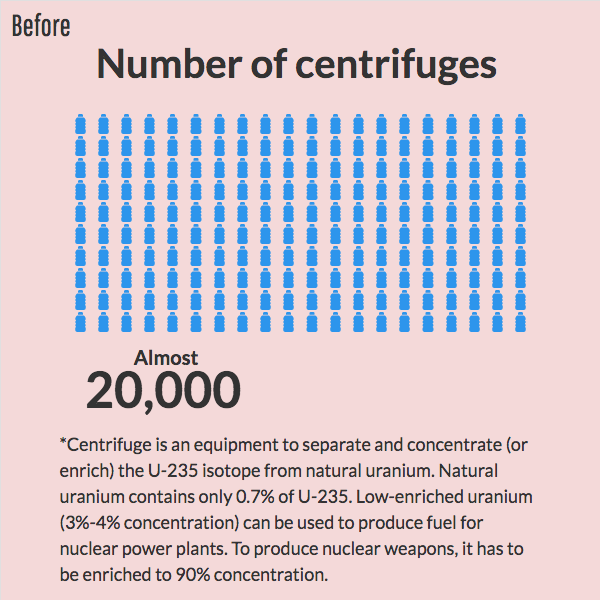
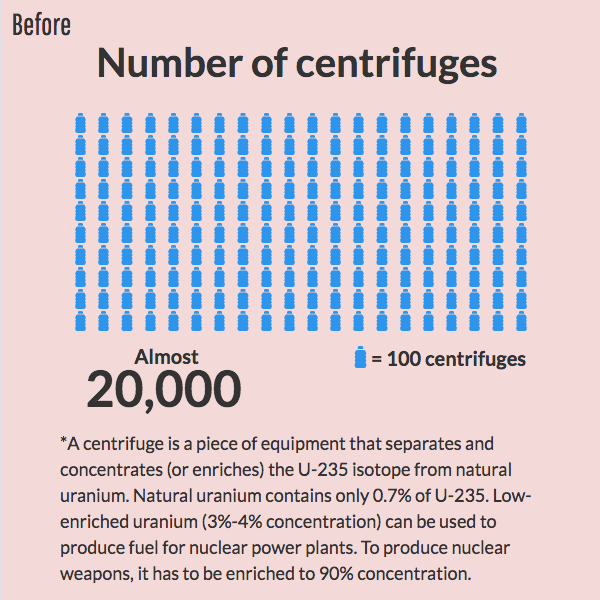
iran nuclear deal images changed

diff --git a/philippines-voter-680.html b/philippines-voter-680.html
@@ -1,0 +1,130 @@
+<head>
+<script src="//ajax.googleapis.com/ajax/libs/jquery/1.11.3/jquery.min.js"></script>
+<script src="http://code.highcharts.com/highcharts.js"></script>
+
+<style>
+body {
+  font-family: "Source Sans Pro","Helvetica Neue",Helvetica,Arial,"Nimbus Sans L",sans-serif;
+  font-size: 112.5%;
+  line-height: 1.5em;
+  color: #33333c;
+      }  
+
+#container{
+height: 400px; 
+max-width: 700px;
+}
+
+#wrapper {
+    border:1px solid #D3D3D3;
+    max-width: 700px; 
+    margin: 0 auto;
+}
+
+#note {
+    font-size: 11px;
+    color: #808080;
+    line-height: 14px;
+    padding:0px 10px 10px 10px;
+}
+
+#credit {
+    font-size: 12px;
+    padding-top: 10px;
+    text-align: right;
+}
+
+#text {
+    font-size: 16px;
+    font-weight: normal;
+    padding-bottom: 10px;
+    color:#333;
+    line-height: 20px;
+}
+
+</style>
+</head>
+
+<body>
+<div id="wrapper">    
+    <div id="container"></div>
+    <div id="note">
+        <div id="text">The San Francisco Philippine Consulate registers voters in eight states in the northwest, Northern California and Nevada. The Los Angeles Consulate covers three states in the southwest, Southern California and Nevada. California is home to 45 percent of Filipinos in America.
+        <div id="credit">Kuang Keng Kuek Ser / PRI</div>
+    </div>
+</div>
+</body>
+
+<script>
+$(function () {
+
+    Highcharts.setOptions({
+        lang: {
+          thousandsSep: ','
+        }
+    }),
+
+    $('#container').highcharts({
+        chart: {
+            type: 'bar',
+        },
+        title: {
+            text: 'Filipinos registered in California to vote in Philippines elections',
+            margin: 20,
+        },
+        subtitle: {
+            enabled: false,
+        },        
+        xAxis: {
+            categories: ['2010','2013','2016'],   
+        },
+        yAxis: {    
+            visible: false,
+        },
+        credits: { enabled: false, },
+        legend: {
+            enabled: true,
+        },
+        tooltip: {
+            pointFormat: '{series.name}<br><b>{point.y:,.0f}</b>',
+        },
+        plotOptions: {
+            series: {
+                groupPadding: 0.07,
+                pointPadding: 0,
+            }
+        },
+        series: [{
+            name: 'Registered in San Francisco',
+            data: [6951,15221,46583],
+            color:"#fcd116",
+            dataLabels: {
+                enabled: true,
+                rotation: 0,
+                color: '#FFFFFF',
+                align: 'left',
+                format: '{point.y:,.0f}',
+                y: 0, // 10 pixels down from the top
+                style: {
+                    fontSize: '12px',
+                }
+            }
+        }, {
+            name: 'Registered in Los Angeles',
+            data: [12642,29037,54651],
+            color:"#4188bc",
+            dataLabels: {
+                enabled: true,
+                rotation: 0,
+                color: '#FFFFFF',
+                align: 'left',
+                format: '{point.y:,.0f}',
+                y: 0, // 10 pixels down from the top
+                style: {
+                    fontSize: '12px',
+                }
+            }
+        }],
+    });
+});
+</script>

diff --git a/iran-nuclear.html b/iran-nuclear.html
@@ -1,0 +1,66 @@
+
+<!DOCTYPE html>
+<html>
+<head>
+<meta http-equiv="Content-Type" content="text/html; charset=utf-8">
+<meta name="viewport" content="width=device-width, initial-scale=1">	
+<link href="http://kuangkeng.github.io/pri-projects/juxtapose.css" rel="stylesheet">
+
+<style type="text/css">
+
+  body {
+  font-family: "Source Sans Pro","Helvetica Neue",Helvetica,Arial,"Nimbus Sans L",sans-serif;
+  font-size: 112.5%;
+  line-height: 1.2em;
+  color: #33333c;
+  } 
+
+  .container {
+    width:100%; 
+    height:auto; 
+    max-width:600px;
+    margin-bottom: 15px;
+  }
+  
+  img {max-width:100%}
+
+  .credit, .description {
+    font-style: italic;
+    font-size: 16px;
+    margin-top: 2px;
+    margin-bottom: 3px;
+  }
+
+  .credit {font-size: 14px;}
+
+@media (max-width: 500px) {
+  .credit, .description {
+    line-height: 1.1em;
+    font-size: 12px;
+  }
+
+  .credit {font-size: 10px;}
+  div.jx-label {font-size: 0.6em !important;}
+} 
+
+</style>
+<head>
+
+<body>
+  <div class="container">
+    <div class="juxtapose" data-startingposition="50" data-showlabels="false" data-showcredits="false" data-animate="true" data-mode="horizontal">
+    <img src="http://kuangkeng.github.io/pri-projects/iran-images/card1-before.png">
+    <img src="http://kuangkeng.github.io/pri-projects/iran-images/card1-after.png">
+    </div>
+  </div>
+  <div class="container">
+    <div class="juxtapose" data-startingposition="50" data-showlabels="false" data-showcredits="false" data-animate="true" data-mode="horizontal">
+    <img src="http://kuangkeng.github.io/pri-projects/iran-images/card2-before.png">
+    <img src="http://kuangkeng.github.io/pri-projects/iran-images/card2-after.png">
+    </div>
+  </div>
+</body>
+
+<script src="http://kuangkeng.github.io/pri-projects/juxtapose.js"></script>
+
+</html>
